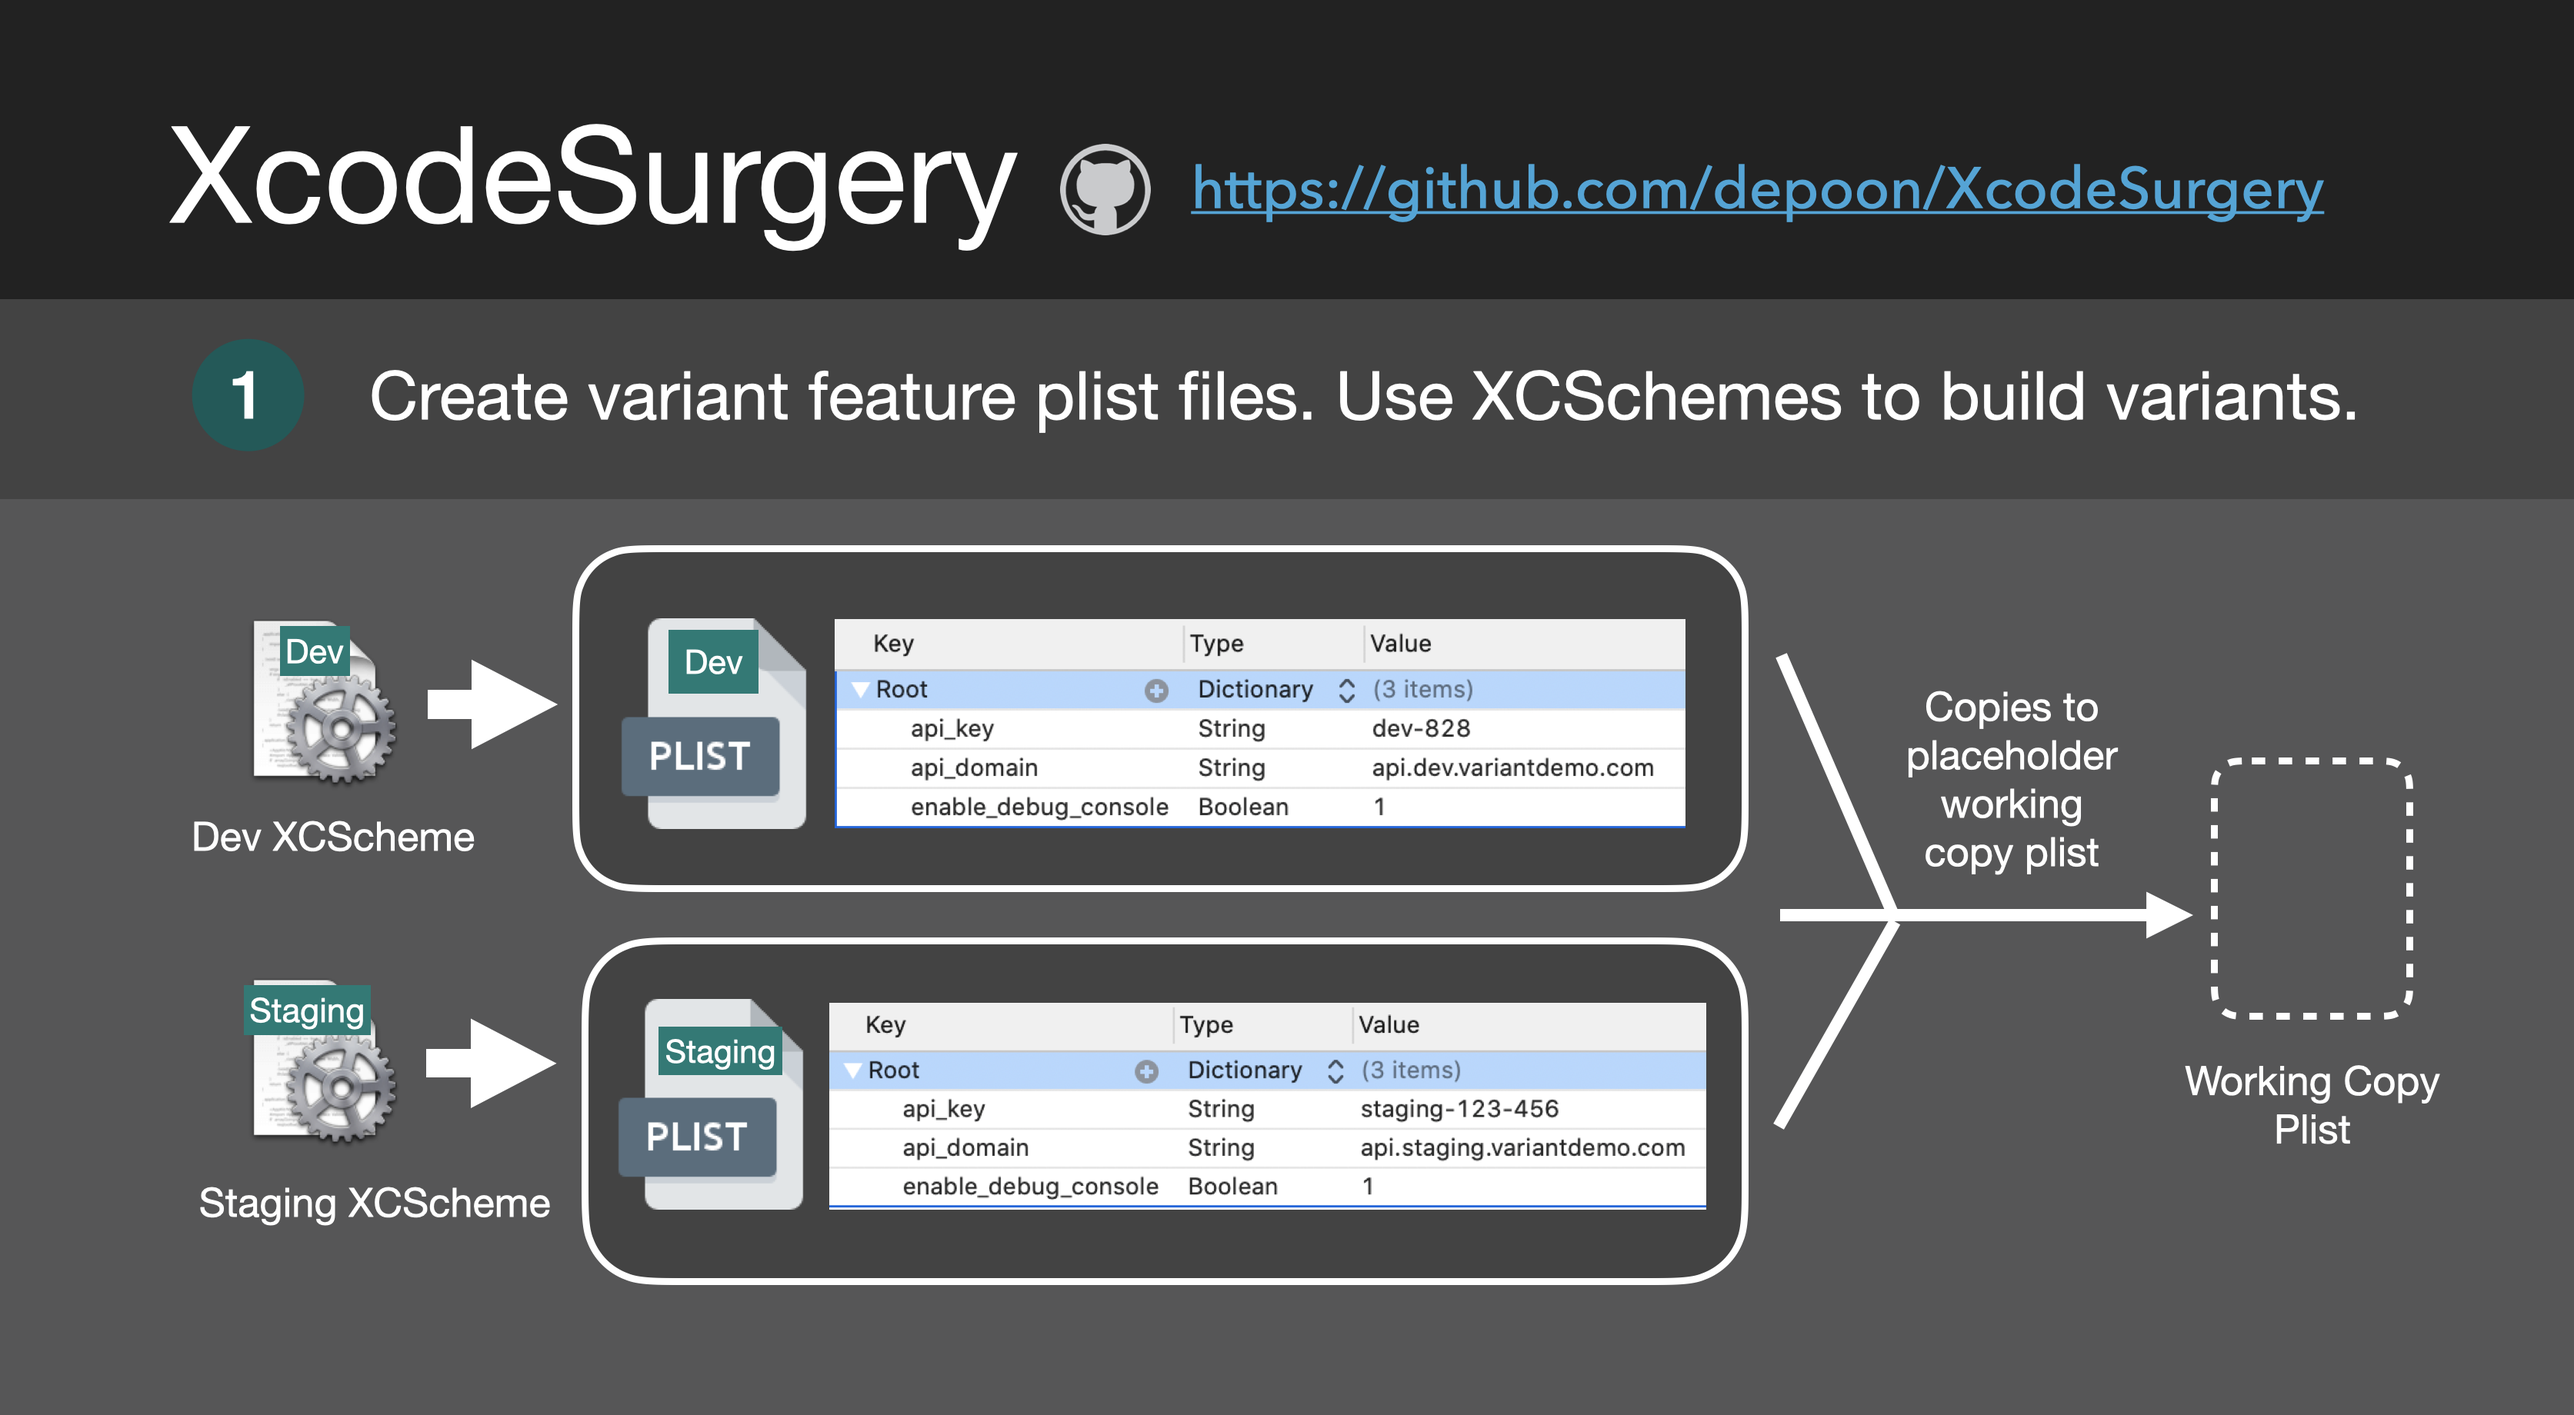
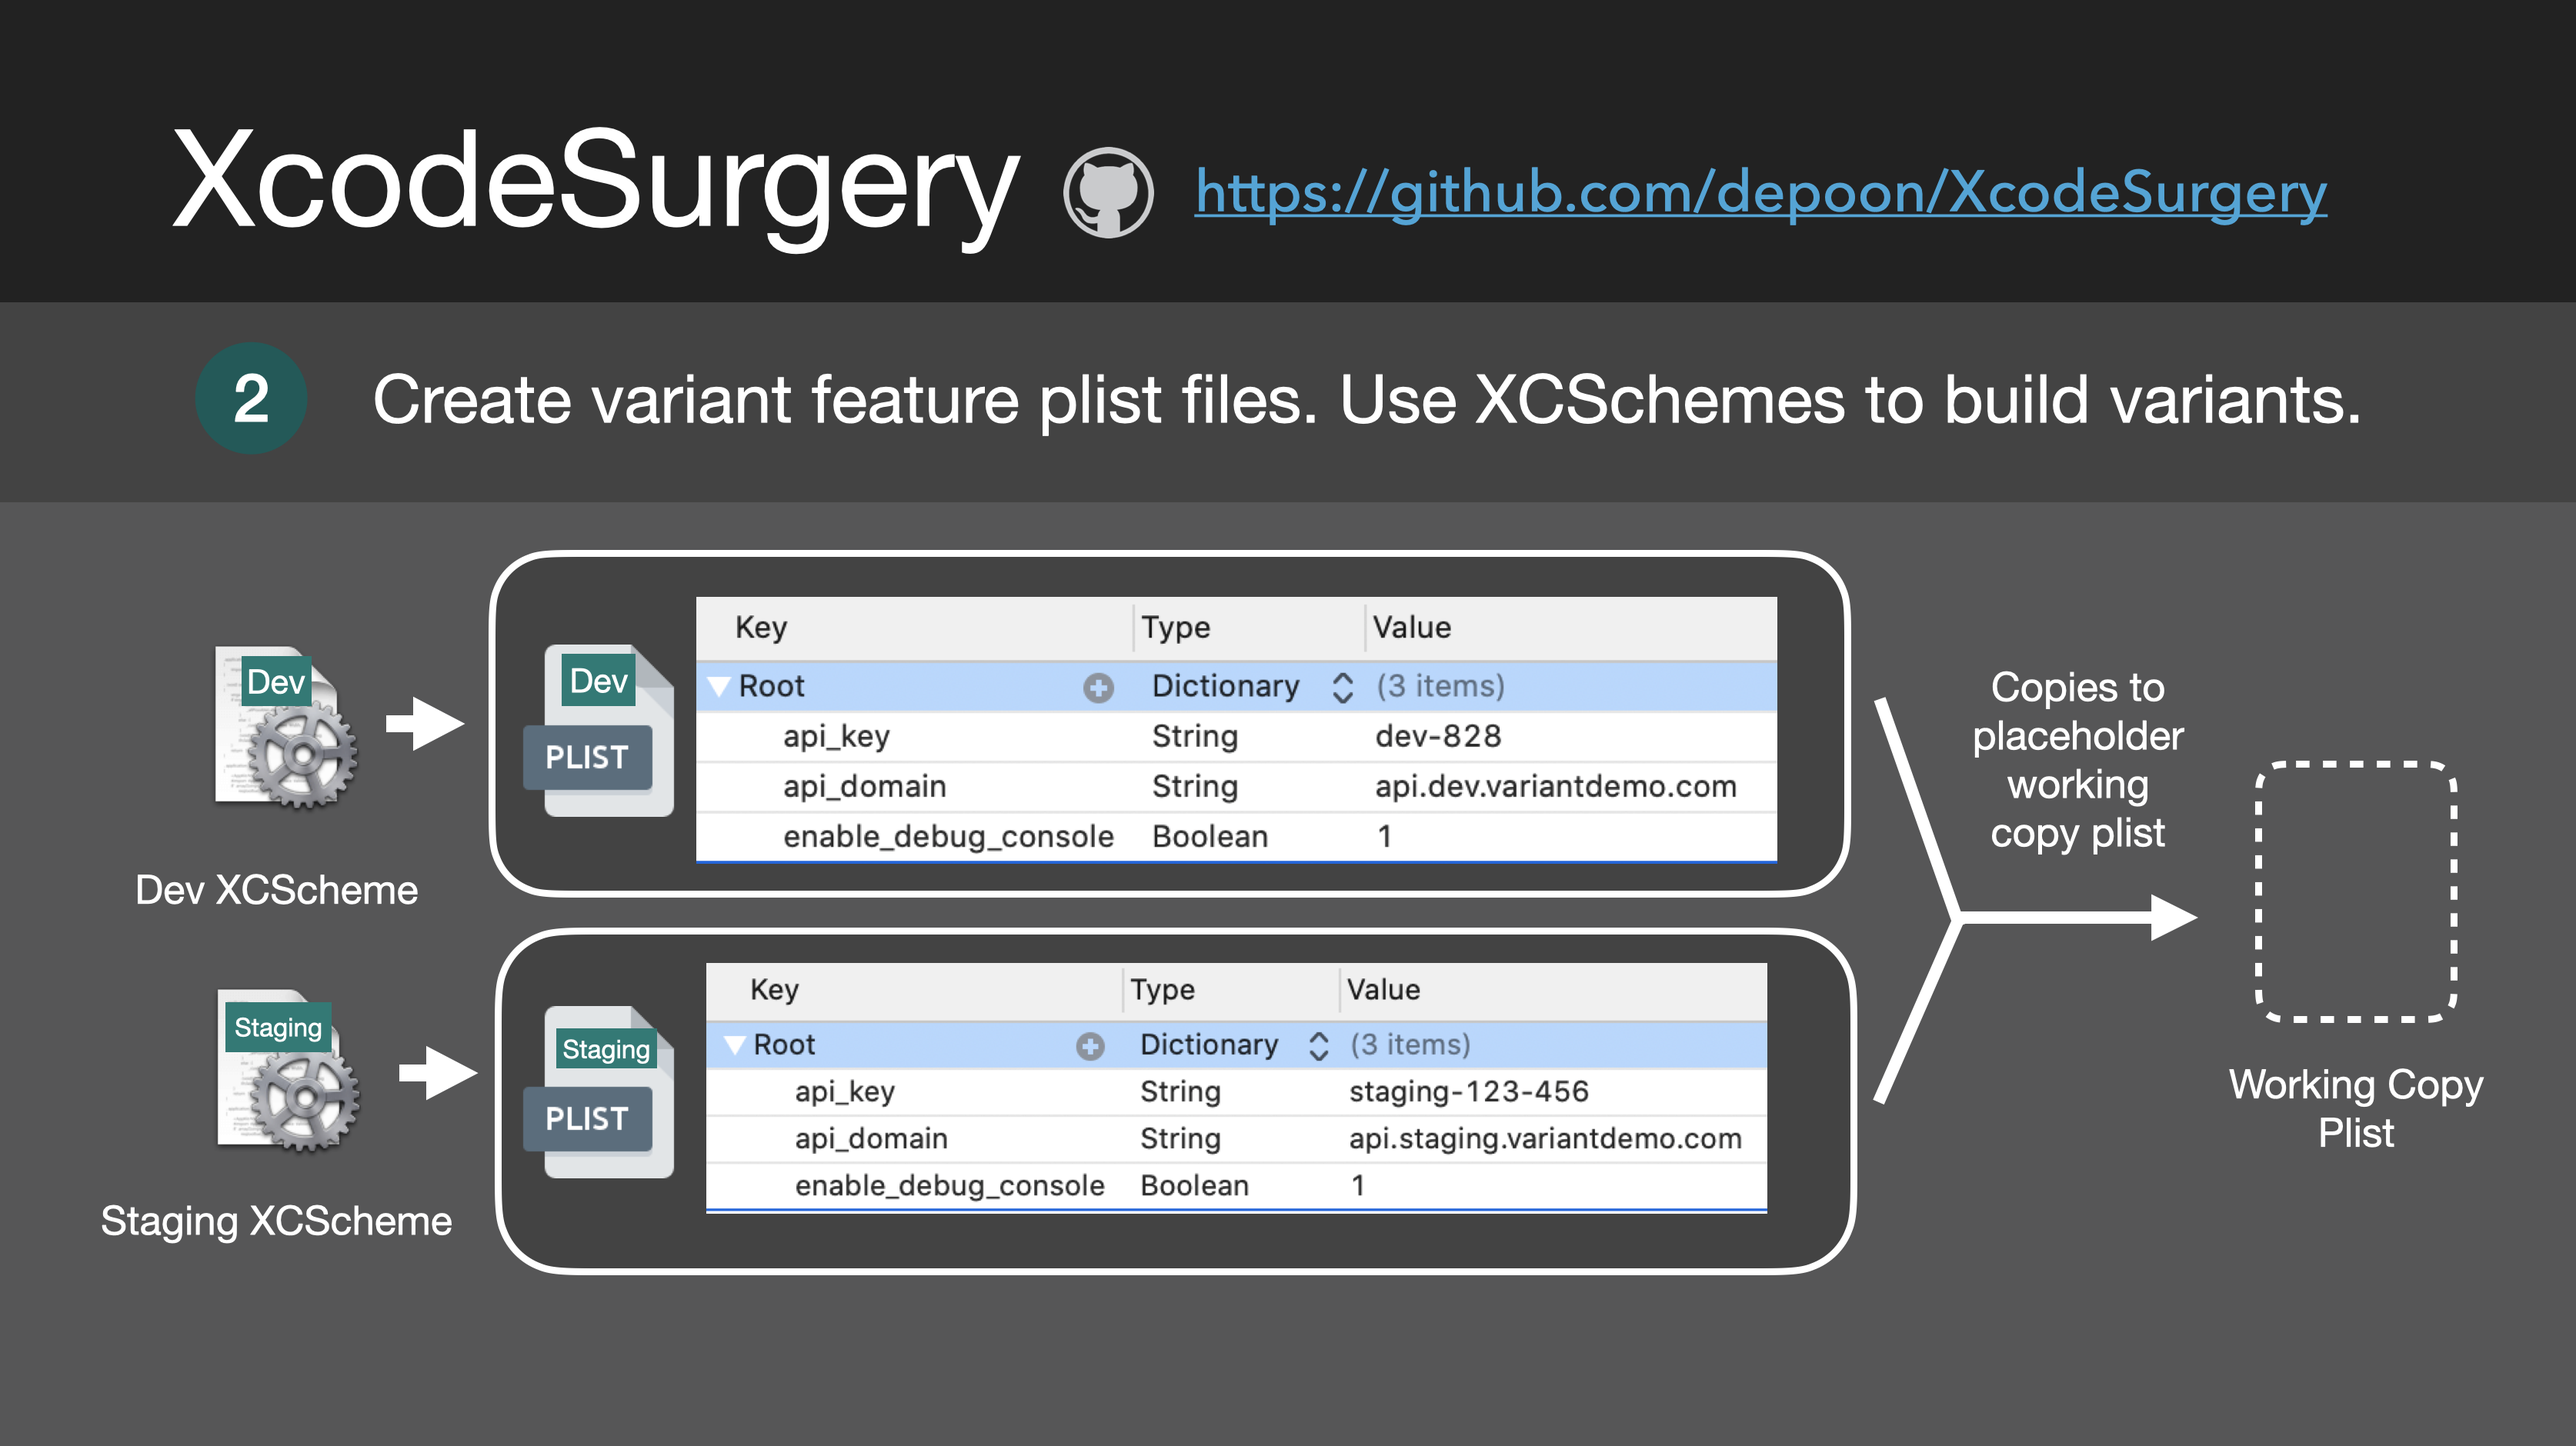
sfsdfd

diff --git a/README.md b/README.md
@@ -30,19 +30,20 @@ Select `VariantEncryption` and `XcodeSurgeryKit` products and add them to your a
 ### Building Variants using same target
 ![Building Variants using same target](docs/images/SettingUpVariantsSameTarget_v1.png)
 
-#### 1. Create variant feature plist files. 
+#### 1. Generate encryption key
+```sh
+xcodesurgery express keygen
+```
+This command will generate a random password in a hidden `.xcodesurgery` folder in your project.
+
+#### 2. Create variant feature plist files. 
 
 ![Image of XcodeSurgery](docs/images/CreatePlistScheme.png)
 
 	1. Create a plist file to hold the variant values. 
-	2. Duplicate the plist file and amend the variant values required.
+	2. Duplicate the plist file (Dev/Staging) and amend the variant values required.
+	3. Create a temporary working directory in your project folder eg `${PROJECT_DIR}/WorkingDirectory`
 
-
-
-#### 2. Generate encryption key
-```sh
-xcodesurgery express keygen
-```
 This will create a hidden `.xcodesurgery/secret` folder in the root project folder and generate random password and salt file for use in the encrypt/decrypt process.
 ![Image of XcodeSurgery](docs/images/SecretsFolder.png)
 
